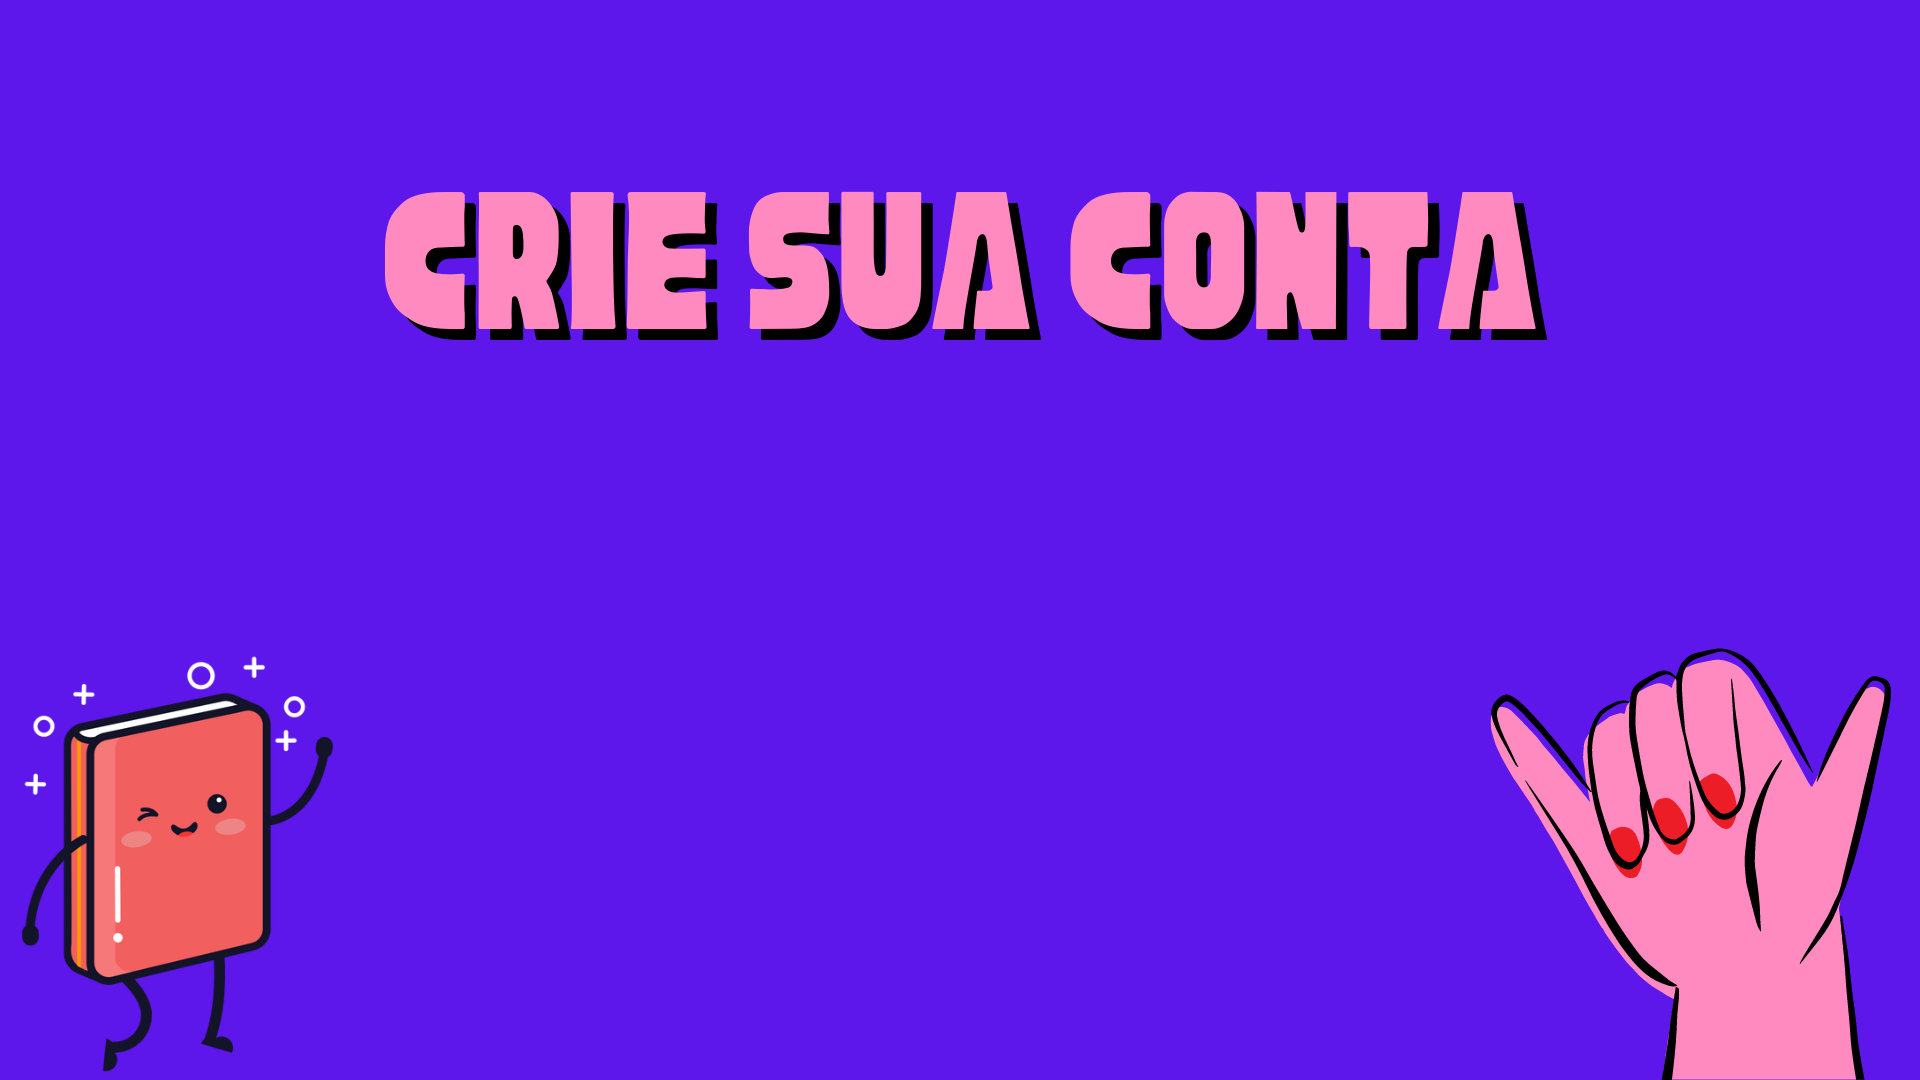
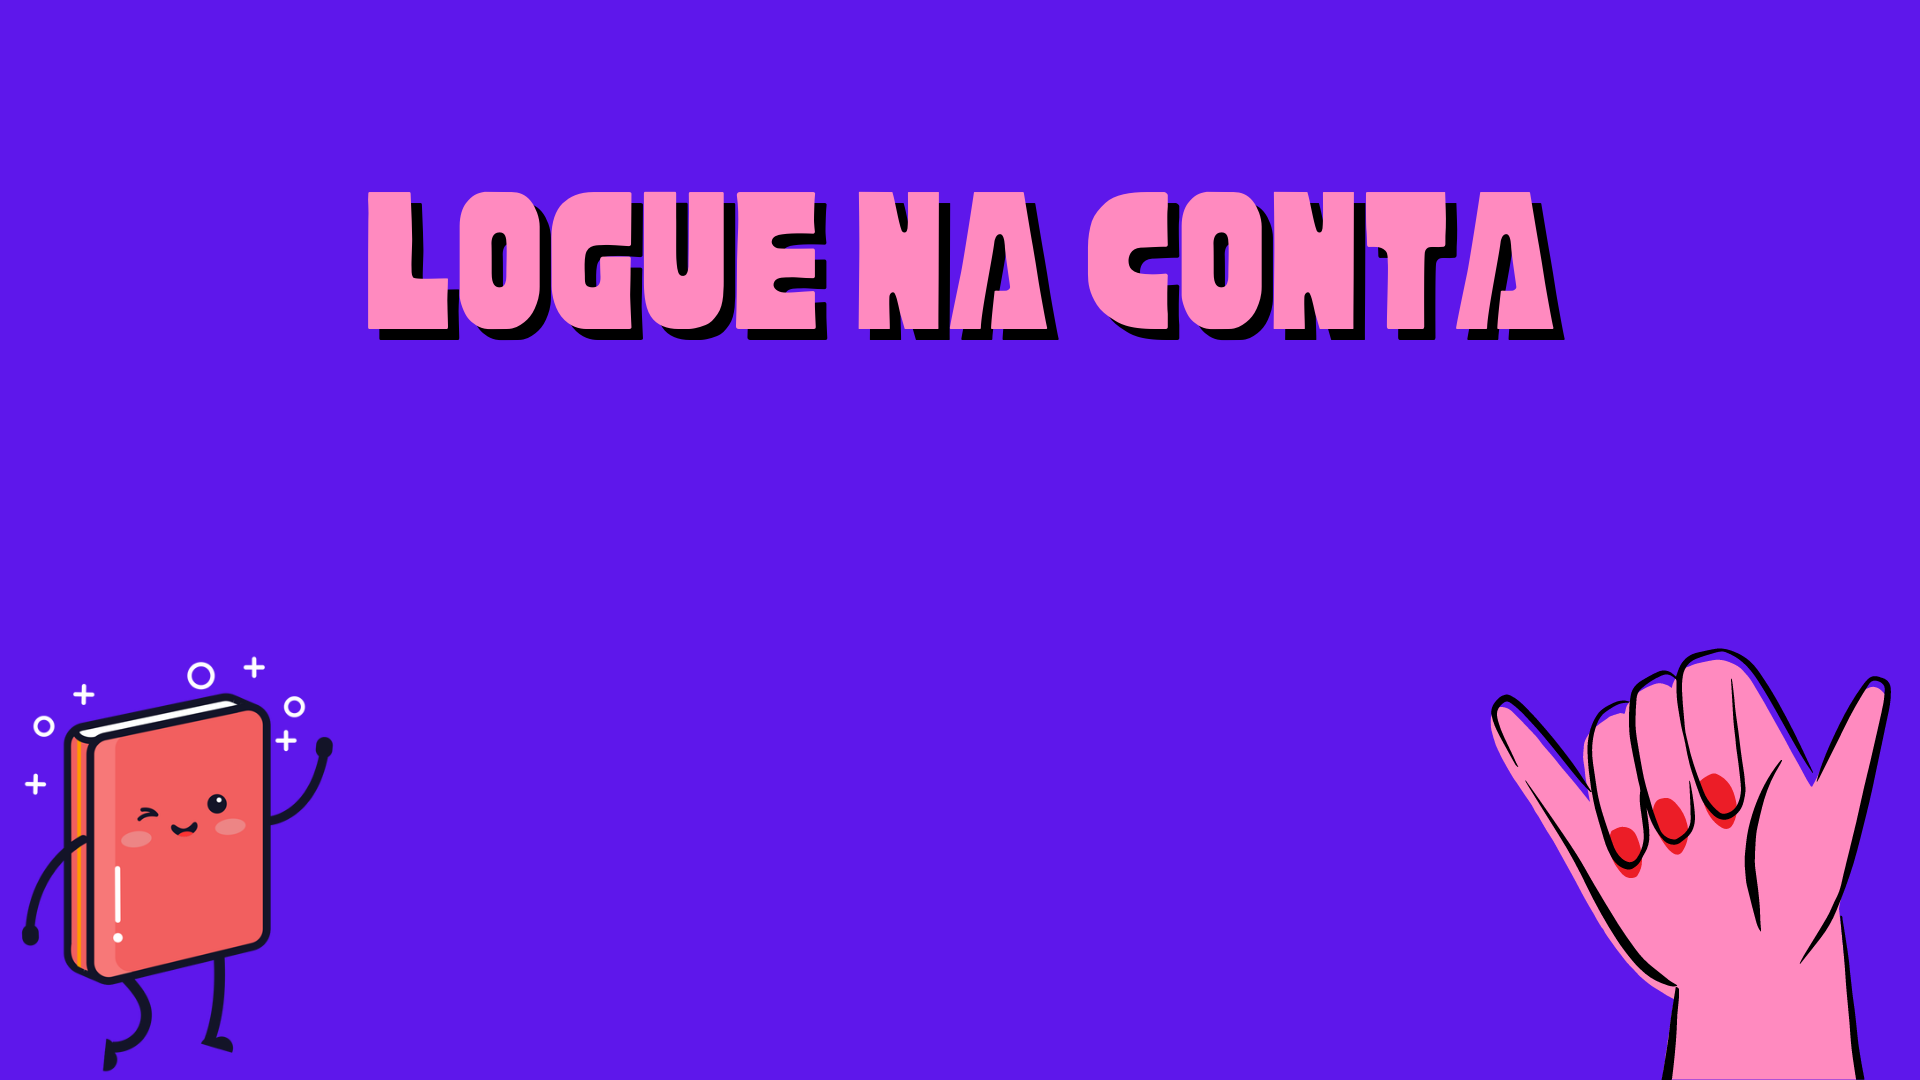
Organização das Paginas

Changed region(s): [[0.1875, 0.1528, 0.8125, 0.3361]]

diff --git a/style/styleLogin.css b/style/styleLogin.css
@@ -43,7 +43,7 @@ body{
  }
  @media (max-width: 1980px){ /* pcs até 1980 x 1080 px */ 
      .IdBody{
-         background-image: url(../imgs/login1980.png);
+         background-image: url(../imgs/login1280.png);
          background-size: contain;
          background-position: center;
          height: 700px;

diff --git a/login.php b/login.php
@@ -16,7 +16,7 @@
 
     <nav class="navbar navbar-expand-lg navbar-light bg-light">
 
-      <a class="navbar-brand" href="./inicioHistorias.php">Inicio</a> <!-- Redirecionando a pagina inicio.php -->
+      <a class="navbar-brand" href="./paginaInicial.php">Inicio</a> <!-- Redirecionando a pagina inicio.php -->
 
         <button class="navbar-toggler" type="button" data-toggle="collapse" data-target="#conteudoNavbarSuportado" aria-controls="conteudoNavbarSuportado" aria-expanded="false" aria-label="Alterna navegação">
 
@@ -39,18 +39,18 @@
 
     <div id="login-container">
 
-      <h1>Cadastro</h1>
+      <h1>Login</h1>
 
-        <form action="./Metodos/confirmacaoLogin.php" method="post">
+      <form action="./Metodos/confirmacaoLogin.php" method="post">
 
-          <label for="email">E-mail</label>
-          <input type="email" name="email" id="email" placeholder="Digite seu e-mail" autocomplate="off">
-          <label for="password">Senha</label>
-          <input type="password" name="password" id="password" placeholder="Digite a sua senha ">
-          <a href="#" id="forgot-pass">Esqueceu a senha?</a>
-          <input type="submit" value="Login">
+        <label for="email">E-mail</label>
+        <input type="email" name="email" id="email" placeholder="Digite seu e-mail" autocomplate="off">
+        <label for="password">Senha</label>
+        <input type="password" name="senha" id="password" placeholder="Digite a sua senha ">
+        <a href="#" id="forgot-pass">Esqueceu a senha?</a>
+        <input type="submit" value="Login">
 
-        </form>
+      </form>
 
        <div id = "registe-container">
 

diff --git a/Dao/Usuario.php b/Dao/Usuario.php
@@ -20,17 +20,15 @@
         }
 
      
-        public function login($usuario, $senha)
+        public function login($dados)
         { 
-            $this->sql = "select * from usuarios where tUsuario=:usuario and tSenha=:senha"; 
-            $resultado = $this->dao->prepare($this->sql); 
-            $resultado->bindParam(':usuario', $usuario);
-            $resultado->bindParam(':senha', $senha);
+            $this->sql = "select * from usuario where email=:usuario and senha=:senha"; 
+            $resultado = $this->conn->prepare($this->sql); 
+            $resultado->bindParam(':usuario',$dados['email']);
+            $resultado->bindParam(':senha',$dados['senha']);
             $resultado->execute();
             $dados = $resultado->fetch(PDO::FETCH_ASSOC);
             if ($dados) {
-                echo("teste");
-                header(""); /* redirecionar a pagina inicio, com as histórias, caso logado com sucesso.*/
                 return true;
             } else {
                 return false;

diff --git a/cadastro.php b/cadastro.php
@@ -18,7 +18,7 @@
 
     <nav class="navbar navbar-expand-lg navbar-light bg-light">
 
-      <a class="navbar-brand" href="./inicioHistorias.php">Inicio</a> <!-- Redirecionando a pagina inicio.php -->
+      <a class="navbar-brand" href="./paginaInicial.php">Inicio</a> <!-- Redirecionando a pagina inicio.php -->
 
         <button class="navbar-toggler" type="button" data-toggle="collapse" data-target="#conteudoNavbarSuportado" aria-controls="conteudoNavbarSuportado" aria-expanded="false" aria-label="Alterna navegação">
 
@@ -43,7 +43,7 @@
 
       <h1>Cadastro</h1>
 
-        <form action="./Metodos/cadastroConfir.php" method="post">
+        <form action="./Metodos/confirmacaoCadastro.php" method="post">
 
           <label for="email">E-mail</label>
           <input type="email" name="email" id="email" placeholder="Digite seu e-mail" autocomplate="off">

diff --git a/index.php b/index.php
@@ -21,7 +21,7 @@
         <div class="collapse navbar-collapse" id="conteudoNavbarSuportado">
             <ul class="navbar-nav mr-auto">
                 <li class="nav-item active">
-                    <a class="nav-link" href="./escreva_SuaHistoria/cadastro.php">Criar Conta<span class="sr-only"></span></a> <!-- Redirecionando a pagina de criação de conta -->
+                    <a class="nav-link" href="./cadastro.php">Criar Conta<span class="sr-only"></span></a> <!-- Redirecionando a pagina de criação de conta -->
                 </li>
                 <li class="nav-item">
                     <a class="nav-link" href="./login.php">Logue já!</a> <!-- redirecionando a pagina de login -->

diff --git a/Metodos/confirmacaoCadastro.php b/Metodos/confirmacaoCadastro.php
@@ -4,16 +4,16 @@
  
  $db = new Usuario();
 
- $dados['email'] = $_POST['email'];
- $dados['senha'] = $_POST['senha'];
+ $credenciais['email'] = $_POST['email'];
+ $credenciais['senha'] = $_POST['senha'];
 
  
- if($db->cadastrar($dados)){
+ if($db->cadastrar($credenciais)){
     echo "Inserção ok";
  }
  else{
 
     echo"Inserção Fail";
-};
+}
 
 ?>

diff --git a/Metodos/confirmacaoLogin.php b/Metodos/confirmacaoLogin.php
@@ -1,5 +1,19 @@
 <?php
 
-echo "Teste";
+ require_once("../Dao/Usuario.php");
+ 
+ $db = new Usuario();
+
+ $credenciais['email'] = $_POST['email'];
+ $credenciais['senha'] = $_POST['senha'];
+
+ 
+ if($db->login($credenciais)){
+    echo "Inserção ok";
+ }
+ else{
+
+    echo"Inserção Fail";
+}
 
 ?>
